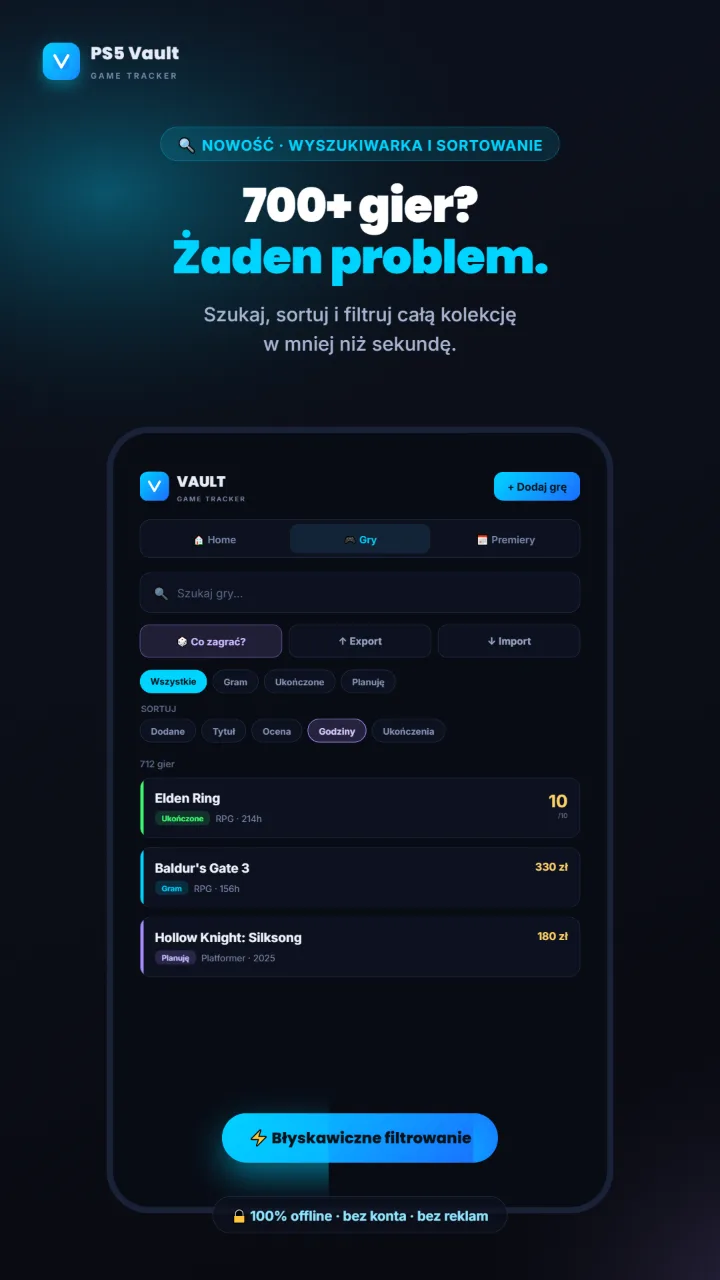
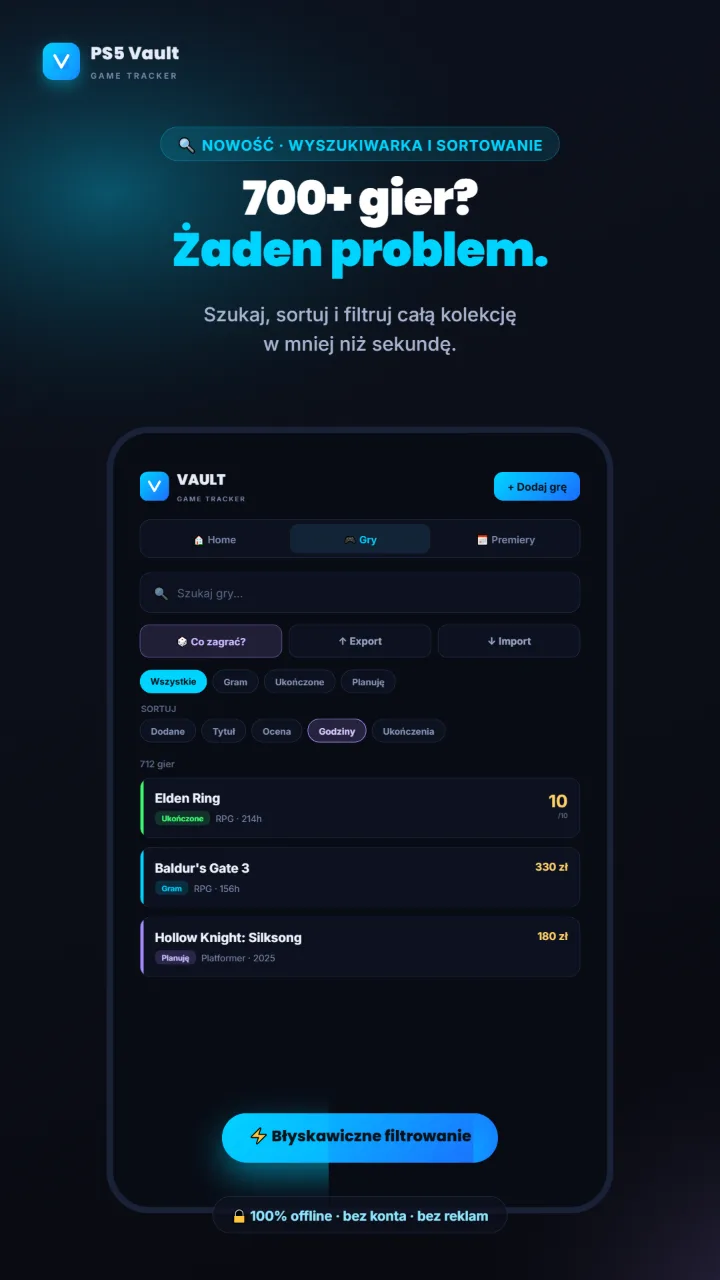
PS5 Vault: screeny w poprawnych proporcjach, bez długich myślników
- Obrazki podglądu były rozciągnięte w pionie: atrybut height="1280"
  wymuszał wysokość 1280 px przy szerokości kolumny. Dodane height: auto,
  proporcje 9:16 zachowane.
- Screeny przerenderowane bez "—" w podtytułach.
- Usunięte wszystkie "—" ze strony: opis og, cytat, podpis autora,
  teksty alternatywne, komentarz CSS na stronie głównej. Zakres "1–3"
  przeformułowany słownie.

Changed region(s): [[0.2444, 0.125, 0.7639, 0.2188], [0.3361, 0.875, 0.6722, 0.9062], [0.2444, 0.375, 0.275, 0.4062]]

diff --git a/ps5-vault/index.html b/ps5-vault/index.html
@@ -6,7 +6,7 @@
   <title>PS5 Vault · Tracker kolekcji gier · SkuDev</title>
   <meta name="description" content="Tracker kolekcji gier na Androida: realny koszt kolekcji, godziny grania, kalendarz premier i import ze Steam, Xboxa, PSN i Playnite. PL/EN/ES, bez konta, bez reklam. Za darmo w Google Play.">
   <meta property="og:title" content="PS5 Vault · Twoje gry, Twoje pieniądze, Twój czas">
-  <meta property="og:description" content="Tracker który liczy kolekcję — i rachunek za nią.">
+  <meta property="og:description" content="Tracker który liczy kolekcję. I rachunek za nią.">
   <meta property="og:type" content="website">
 
   <link rel="preconnect" href="https://fonts.googleapis.com">
@@ -362,6 +362,7 @@
 
     .shots img {
       width: 100%;
+      height: auto;
       aspect-ratio: 9 / 16;
       display: block;
       border-radius: 18px;
@@ -508,9 +509,9 @@
           <p class="story-quote">
             Mam PS5 od premiery. Kupuję gry w promkach, niektóre otwieram, większości nigdy.
             <em>Trzy razy</em> kupiłem tę samą grę zanim zrozumiałem że to problem.
-            Zrobiłem apkę żeby wiedzieć co mam — i szybko okazało się że ciekawsze jest <em>ile to kosztowało</em>.
+            Zrobiłem apkę żeby wiedzieć co mam, i szybko okazało się że ciekawsze jest <em>ile to kosztowało</em>.
           </p>
-          <div class="story-author">— Mateusz, właściciel PS5, twórca</div>
+          <div class="story-author">Mateusz, właściciel PS5, twórca</div>
         </div>
       </div>
     </section>
@@ -540,7 +541,7 @@
             <div class="feature-num">03</div>
             <span class="feature-emoji">📅</span>
             <h3>Premiery z countdownem</h3>
-            <p>Gry z datą premiery sortują się same. Przypomnienia na 30, 7 i 1–3 dni przed premierą oraz w dniu wydania, gdy otworzysz apkę. Preordery nie wliczają się do wydatków miesiąca przed premierą.</p>
+            <p>Gry z datą premiery sortują się same. Przypomnienia na miesiąc i tydzień przed premierą, w ostatnie trzy dni i w dniu wydania, gdy otworzysz apkę. Preordery nie wliczają się do wydatków miesiąca przed premierą.</p>
           </div>
 
           <div class="feature">
@@ -595,12 +596,12 @@
         <h2 class="section-title">Najważniejsze funkcje <em>w skrócie</em>.</h2>
 
         <div class="shots">
-          <img src="screenshots/01-wyszukiwarka-sort.webp" width="720" height="1280" loading="lazy" alt="Kolekcja z wyszukiwarką, filtrami i sortowaniem — 700+ gier bez problemu">
+          <img src="screenshots/01-wyszukiwarka-sort.webp" width="720" height="1280" loading="lazy" alt="Kolekcja z wyszukiwarką, filtrami i sortowaniem, płynna nawet przy 700+ grach">
           <img src="screenshots/02-losowarka.webp" width="720" height="1280" loading="lazy" alt="Losowarka wybiera grę z backlogu">
-          <img src="screenshots/03-wrapped.webp" width="720" height="1280" loading="lazy" alt="Rok w grach — godziny, ukończone gry, platyny i najczęściej grane tytuły">
+          <img src="screenshots/03-wrapped.webp" width="720" height="1280" loading="lazy" alt="Rok w grach: godziny, ukończone gry, platyny i najczęściej grane tytuły">
           <img src="screenshots/05-import.webp" width="720" height="1280" loading="lazy" alt="Import biblioteki ze Steam, Xboxa, PSN i Playnite">
-          <img src="screenshots/06-budzet.webp" width="720" height="1280" loading="lazy" alt="Finansowy insight — realny koszt kolekcji i wydatki w tym miesiącu">
-          <img src="screenshots/04-offline-privacy.webp" width="720" height="1280" loading="lazy" alt="Bez konta i bez reklam — dane zostają na telefonie">
+          <img src="screenshots/06-budzet.webp" width="720" height="1280" loading="lazy" alt="Finansowy insight: realny koszt kolekcji i wydatki w tym miesiącu">
+          <img src="screenshots/04-offline-privacy.webp" width="720" height="1280" loading="lazy" alt="Bez konta i bez reklam, dane zostają na telefonie">
         </div>
       </div>
     </section>

diff --git a/index.html b/index.html
@@ -520,7 +520,7 @@ h2 {
 
 .project.no-link .project-arrow { display: none; }
 
-/* ═══ PASEK HASEŁ (zamiast tech logos — dostosowane do Ciebie) ═══ */
+/* ═══ PASEK HASEŁ (zamiast tech logos, dostosowane do Ciebie) ═══ */
 .mantra {
   padding: 50px 0;
 }
